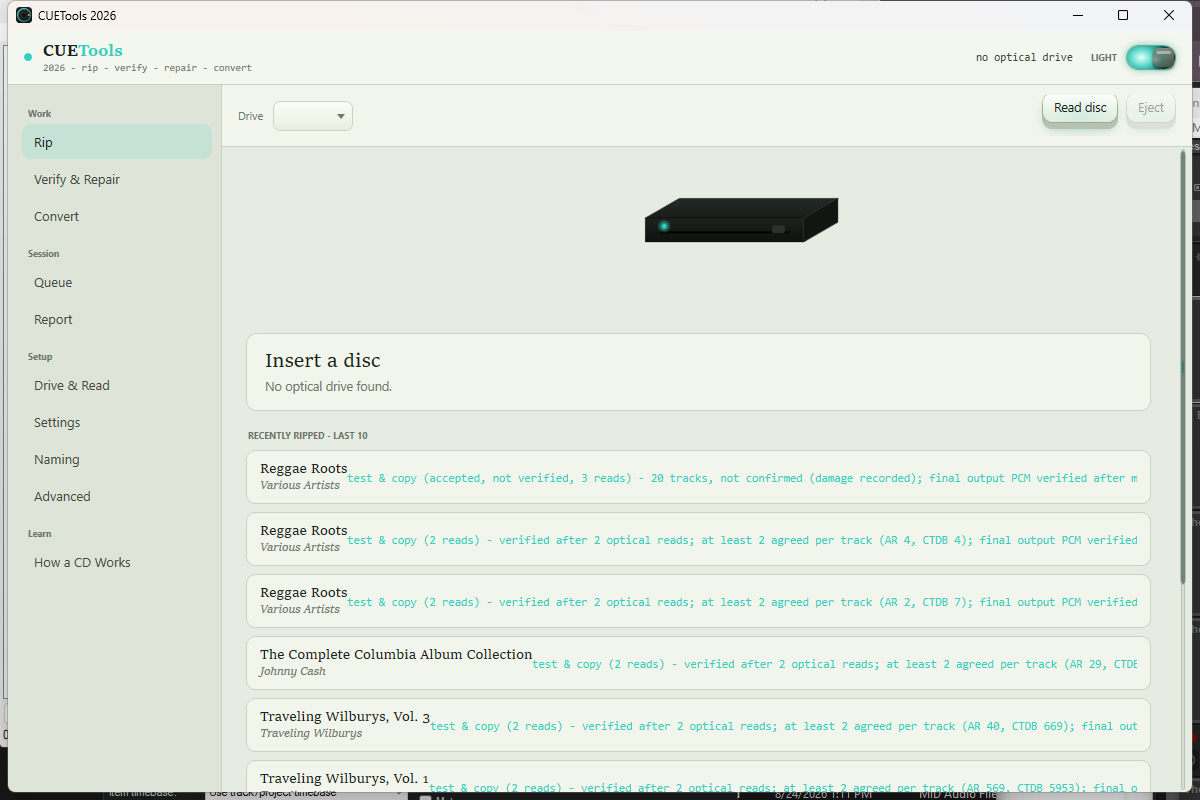
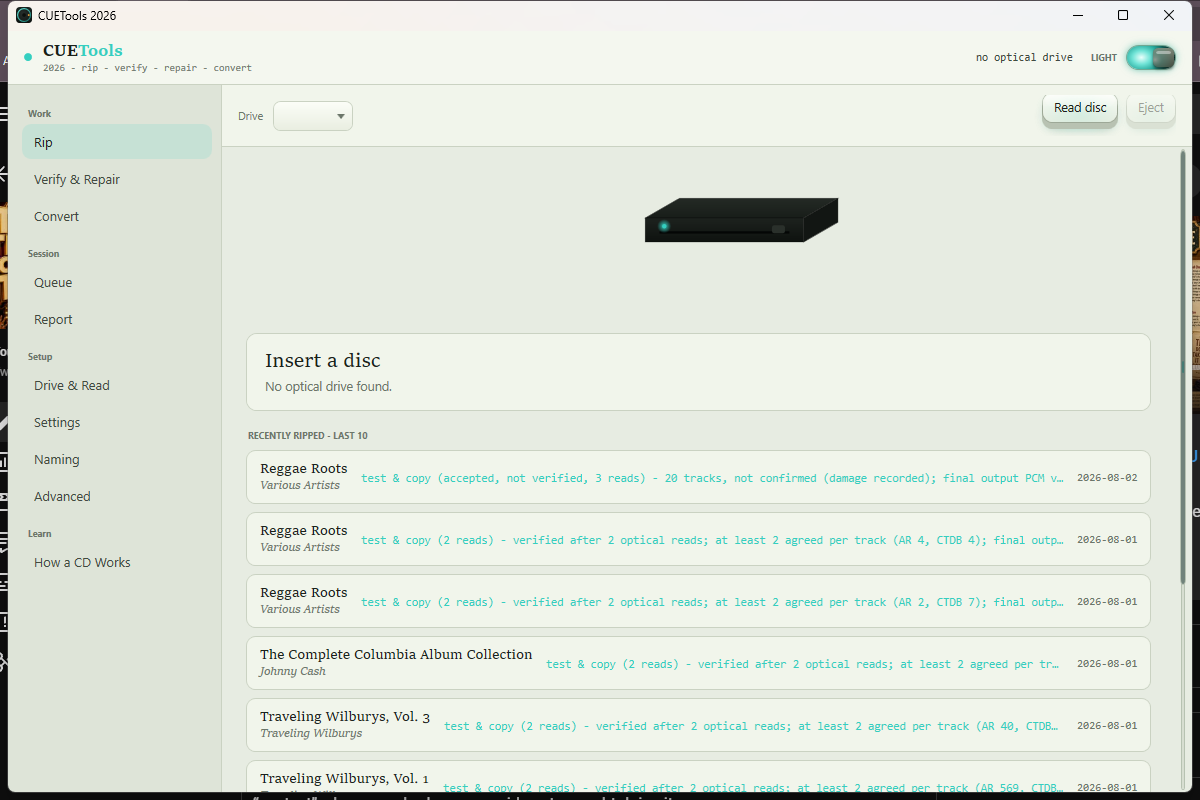
Fix round 1: recapture the 1200 shots and stop the evidence doc contradicting itself on D13

diff --git a/docs/evidence/2026-08-24-wpf-scaling-port/index.md b/docs/evidence/2026-08-24-wpf-scaling-port/index.md
@@ -3,9 +3,10 @@
 Evidence for the SLICE-013 Windows port (fork PR 72). 40 captures: five Windows display scales,
 both themes, four window widths each.
 
-**The port itself behaves as specified at every scale and width tested.** One pre-existing defect
-was found on the Rip page that the port did not introduce; it is described at the bottom and is
-visible in every capture.
+**The port itself behaves as specified at every scale and width tested.** This walkthrough also
+found one pre-existing defect on the Rip page that the port did not introduce; it is described at
+the bottom. That defect has since been fixed (D13) and all 40 captures in this folder were
+regenerated after the fix, so they show the corrected layout, not the original defect.
 
 ## Host and method
 
@@ -66,12 +67,15 @@ therefore walked at four widths: 1200 (the documented default, full rail), 1100 
 At 200%, the 1200 and 1100 captures are height-clamped to 1470 physical pixels by the desktop work
 area. Width is what the breakpoints key off, so this does not affect the rail result.
 
-## Finding: Rip page history rows starve the timestamp and hard-clip the result
+## Finding: Rip page history rows starved the timestamp and hard-clipped the result - fixed (D13)
 
-Not a scaling-port regression. It reproduces at every scale and every width, including the 1200
-default, and the port did not touch this template.
+Found during this walkthrough. Not a scaling-port regression: it reproduced at every scale and
+every width, including the 1200 default, and the port did not touch this template. Logged as D13
+in `docs/review/decisions-needed.md` and left unfixed at the time the walkthrough was written up,
+because the row layout is a Rip page design decision and this walkthrough was scoped to reviewing
+the scaling port.
 
-`CUETools.Wpf/Views/RipView.xaml:526-533` lays each history row out as:
+`CUETools.Wpf/Views/RipView.xaml:526-533` laid each history row out as:
 
 ```xml
 <DockPanel LastChildFill="False">
@@ -81,21 +85,27 @@ default, and the port did not touch this template.
 </DockPanel>
 ```
 
-`DockPanel` reserves space in declaration order, so `Result` docks against the right edge first and
-takes everything left over. `Result` carries the full evidence sentence, which is far wider than
-the row, so it consumes the entire remaining width and `When` is left zero width.
+`DockPanel` reserves space in declaration order, so `Result` docked against the right edge first
+and took everything left over. `Result` carried the full evidence sentence, which is far wider
+than the row, so it consumed the entire remaining width and `When` was left zero width.
 
-Two consequences, both **measured** across all 40 captures:
+Two consequences, both **measured** across the original 40 captures:
 
-1. **The relative timestamp never renders.** `When` is always populated -
-   `HistoryStore.cs:75` sets `When = Relative(r.When)` - but it does not appear in a single
+1. **The relative timestamp never rendered.** `When` was always populated -
+   `HistoryStore.cs:75` sets `When = Relative(r.When)` - but it did not appear in a single
    capture at any scale or width.
-2. **`Result` is hard-clipped mid-word.** That `TextBlock` sets no `TextTrimming` and no
-   `ToolTip`, so the text is cut at the panel edge with no ellipsis and no way to read the rest.
+2. **`Result` was hard-clipped mid-word.** That `TextBlock` set no `TextTrimming` and no
+   `ToolTip`, so the text was cut at the panel edge with no ellipsis and no way to read the rest.
    CLAUDE.md requires that long identity text be trimmed only with its full value in a tooltip.
 
-The album title also abuts the result text with no gap once the row is narrow, which is the same
-root cause.
+The album title also abutted the result text with no gap once the row was narrow, which was the
+same root cause.
 
-Left as a finding rather than fixed: the row layout is a Rip page design decision, and this
-walkthrough was scoped to reviewing the scaling port.
+**Fixed 2026-08-24.** `RipView.xaml` now docks `When` before `Result`: `When` docks Right and
+always gets its width, and `Result` is the `LastChildFill` child, so it fills the remaining
+middle and trims with `TextTrimming="CharacterEllipsis"` plus a `ToolTip` bound to the same
+value. `RipHistoryRowTests` (`CUETools.Wpf.Tests`) pins both halves of the fix - the dock order
+and the trim/tooltip pair. D13 is resolved with this fix; see
+`docs/review/decisions-needed.md`. All 40 captures in this folder were regenerated after the fix
+landed, so every capture here, including the 1200-width ones, shows the timestamp rendering and
+the result trimming with an ellipsis rather than the original defect.
